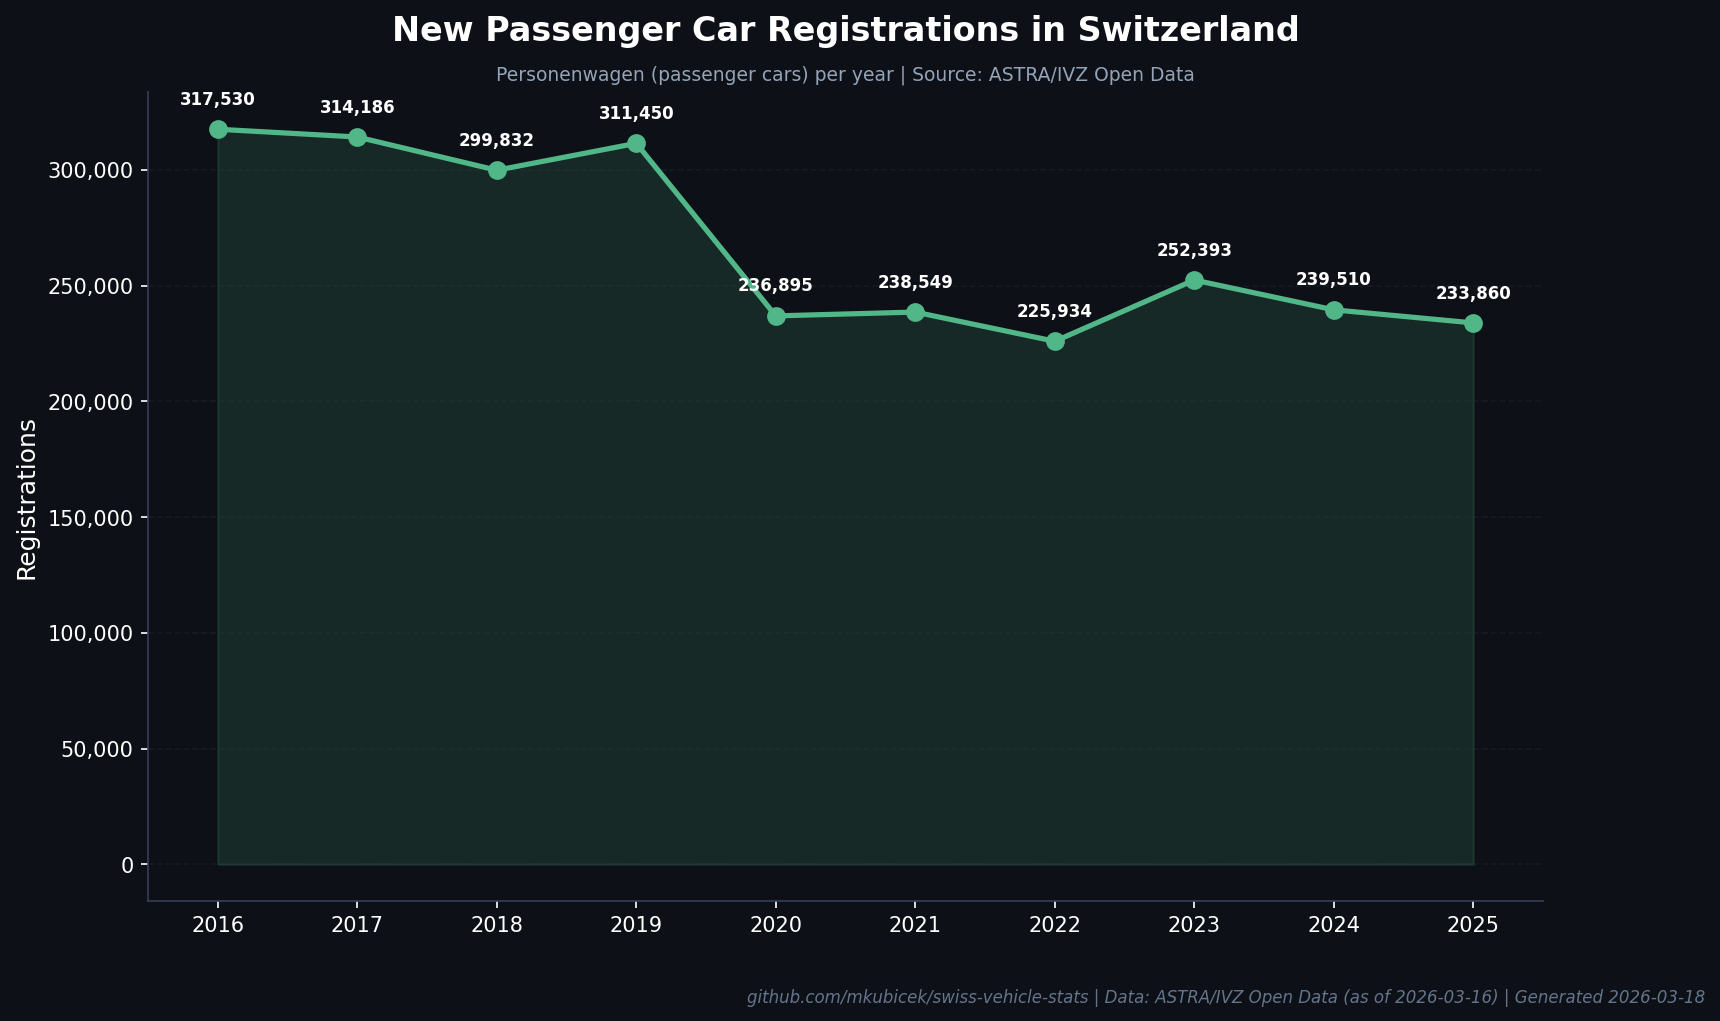
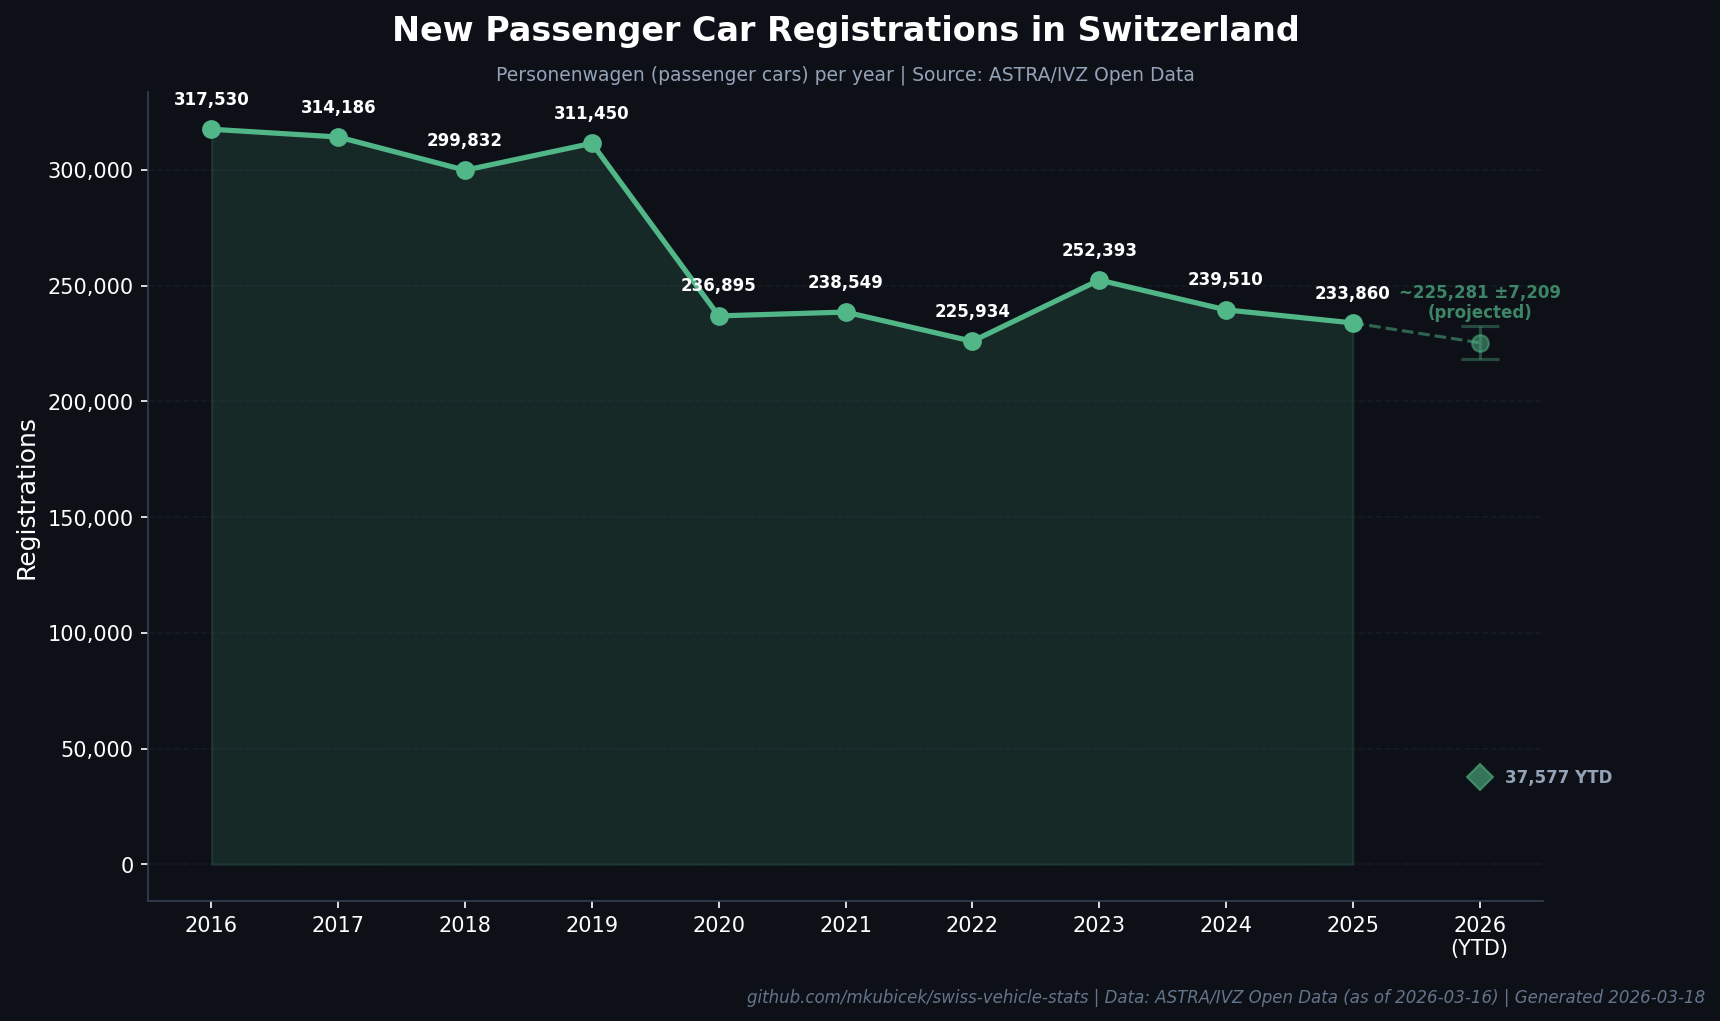
feat: replace uncertainty band with error bars in yearly registrations chart
Use vertical error bar with caps instead of fill_between for the
projection range. Add ± margin to projection label. Move YTD label
to the right of the diamond marker.

diff --git a/scripts/chart.py b/scripts/chart.py
@@ -157,8 +157,20 @@ def save_chart(fig, name: str):
     print(f"  Saved: {name}.png ({size_kb:.0f} KB)")
 
 
+def load_projection() -> dict | None:
+    """Load projection.json if it exists and has a non-null projection."""
+    path = DATA_DIR / "projection.json"
+    if not path.exists():
+        return None
+    with open(path) as f:
+        data = json.load(f)
+    if data.get("projection") is None:
+        return None
+    return data
+
+
 def chart_yearly_registrations():
-    """Total registrations as line chart with trend."""
+    """Total registrations as line chart with trend + optional projection."""
     df = pd.read_csv(DATA_DIR / "monthly_totals.csv")
     yearly = df.groupby("year")["count"].sum().reset_index()
     # Exclude partial current year (< 12 months)
@@ -176,14 +188,60 @@ def chart_yearly_registrations():
                     textcoords="offset points", xytext=(0, 12),
                     ha="center", fontsize=8, fontweight="bold", color=TEXT)
 
+    # Load projection and add YTD + projected point
+    proj = load_projection()
+    x_max = yearly["year"].max()
+    xticks = list(yearly["year"])
+    xticklabels = [str(int(y)) for y in yearly["year"]]
+
+    if proj:
+        proj_year = proj["year"]
+        ytd = proj["ytd_actual"]
+        projected = proj["projection"]
+        proj_low = proj["projection_low"]
+        proj_high = proj["projection_high"]
+        x_max = proj_year
+
+        # YTD point (diamond marker, lower alpha)
+        ax.plot(proj_year, ytd, marker="D", markersize=9, color="#52b788",
+                alpha=0.6, zorder=4, linestyle="none")
+        ax.annotate(f"{ytd:,} YTD", (proj_year, ytd),
+                    textcoords="offset points", xytext=(12, 0),
+                    ha="left", va="center", fontsize=8, fontweight="bold", color=SUBTLE)
+
+        # Dashed line from last complete year to projection
+        last_complete_year = int(yearly["year"].iloc[-1])
+        last_complete_count = int(yearly["count"].iloc[-1])
+        ax.plot([last_complete_year, proj_year], [last_complete_count, projected],
+                linestyle="--", linewidth=1.5, color="#52b788", alpha=0.5, zorder=2)
+
+        # Projection point
+        ax.plot(proj_year, projected, marker="o", markersize=8, color="#52b788",
+                alpha=0.5, zorder=4, linestyle="none")
+        margin = projected - proj_low
+        ax.annotate(f"~{projected:,} ±{margin:,}\n(projected)", (proj_year, projected),
+                    textcoords="offset points", xytext=(0, 12),
+                    ha="center", fontsize=8, fontweight="bold", color="#52b788", alpha=0.7)
+
+        # Uncertainty error bar
+        ax.vlines(proj_year, proj_low, proj_high,
+                  color="#52b788", alpha=0.35, linewidth=1.5, zorder=2)
+        cap_w = 0.15
+        for yval in (proj_low, proj_high):
+            ax.hlines(yval, proj_year - cap_w, proj_year + cap_w,
+                      color="#52b788", alpha=0.35, linewidth=1.5, zorder=2)
+
+        xticks.append(proj_year)
+        xticklabels.append(f"{proj_year}\n(YTD)")
+
     style_chart(ax,
                 "New Passenger Car Registrations in Switzerland",
                 subtitle="Personenwagen (passenger cars) per year | Source: ASTRA/IVZ Open Data",
                 ylabel="Registrations")
     ax.yaxis.set_major_formatter(mticker.FuncFormatter(lambda x, _: f"{x:,.0f}"))
-    ax.set_xlim(yearly["year"].min() - 0.5, yearly["year"].max() + 0.5)
-    ax.set_xticks(yearly["year"])
-    ax.set_xticklabels(yearly["year"].astype(int))
+    ax.set_xlim(min(xticks) - 0.5, x_max + 0.5)
+    ax.set_xticks(xticks)
+    ax.set_xticklabels(xticklabels)
     add_attribution(fig)
     save_chart(fig, "yearly_registrations")
 
